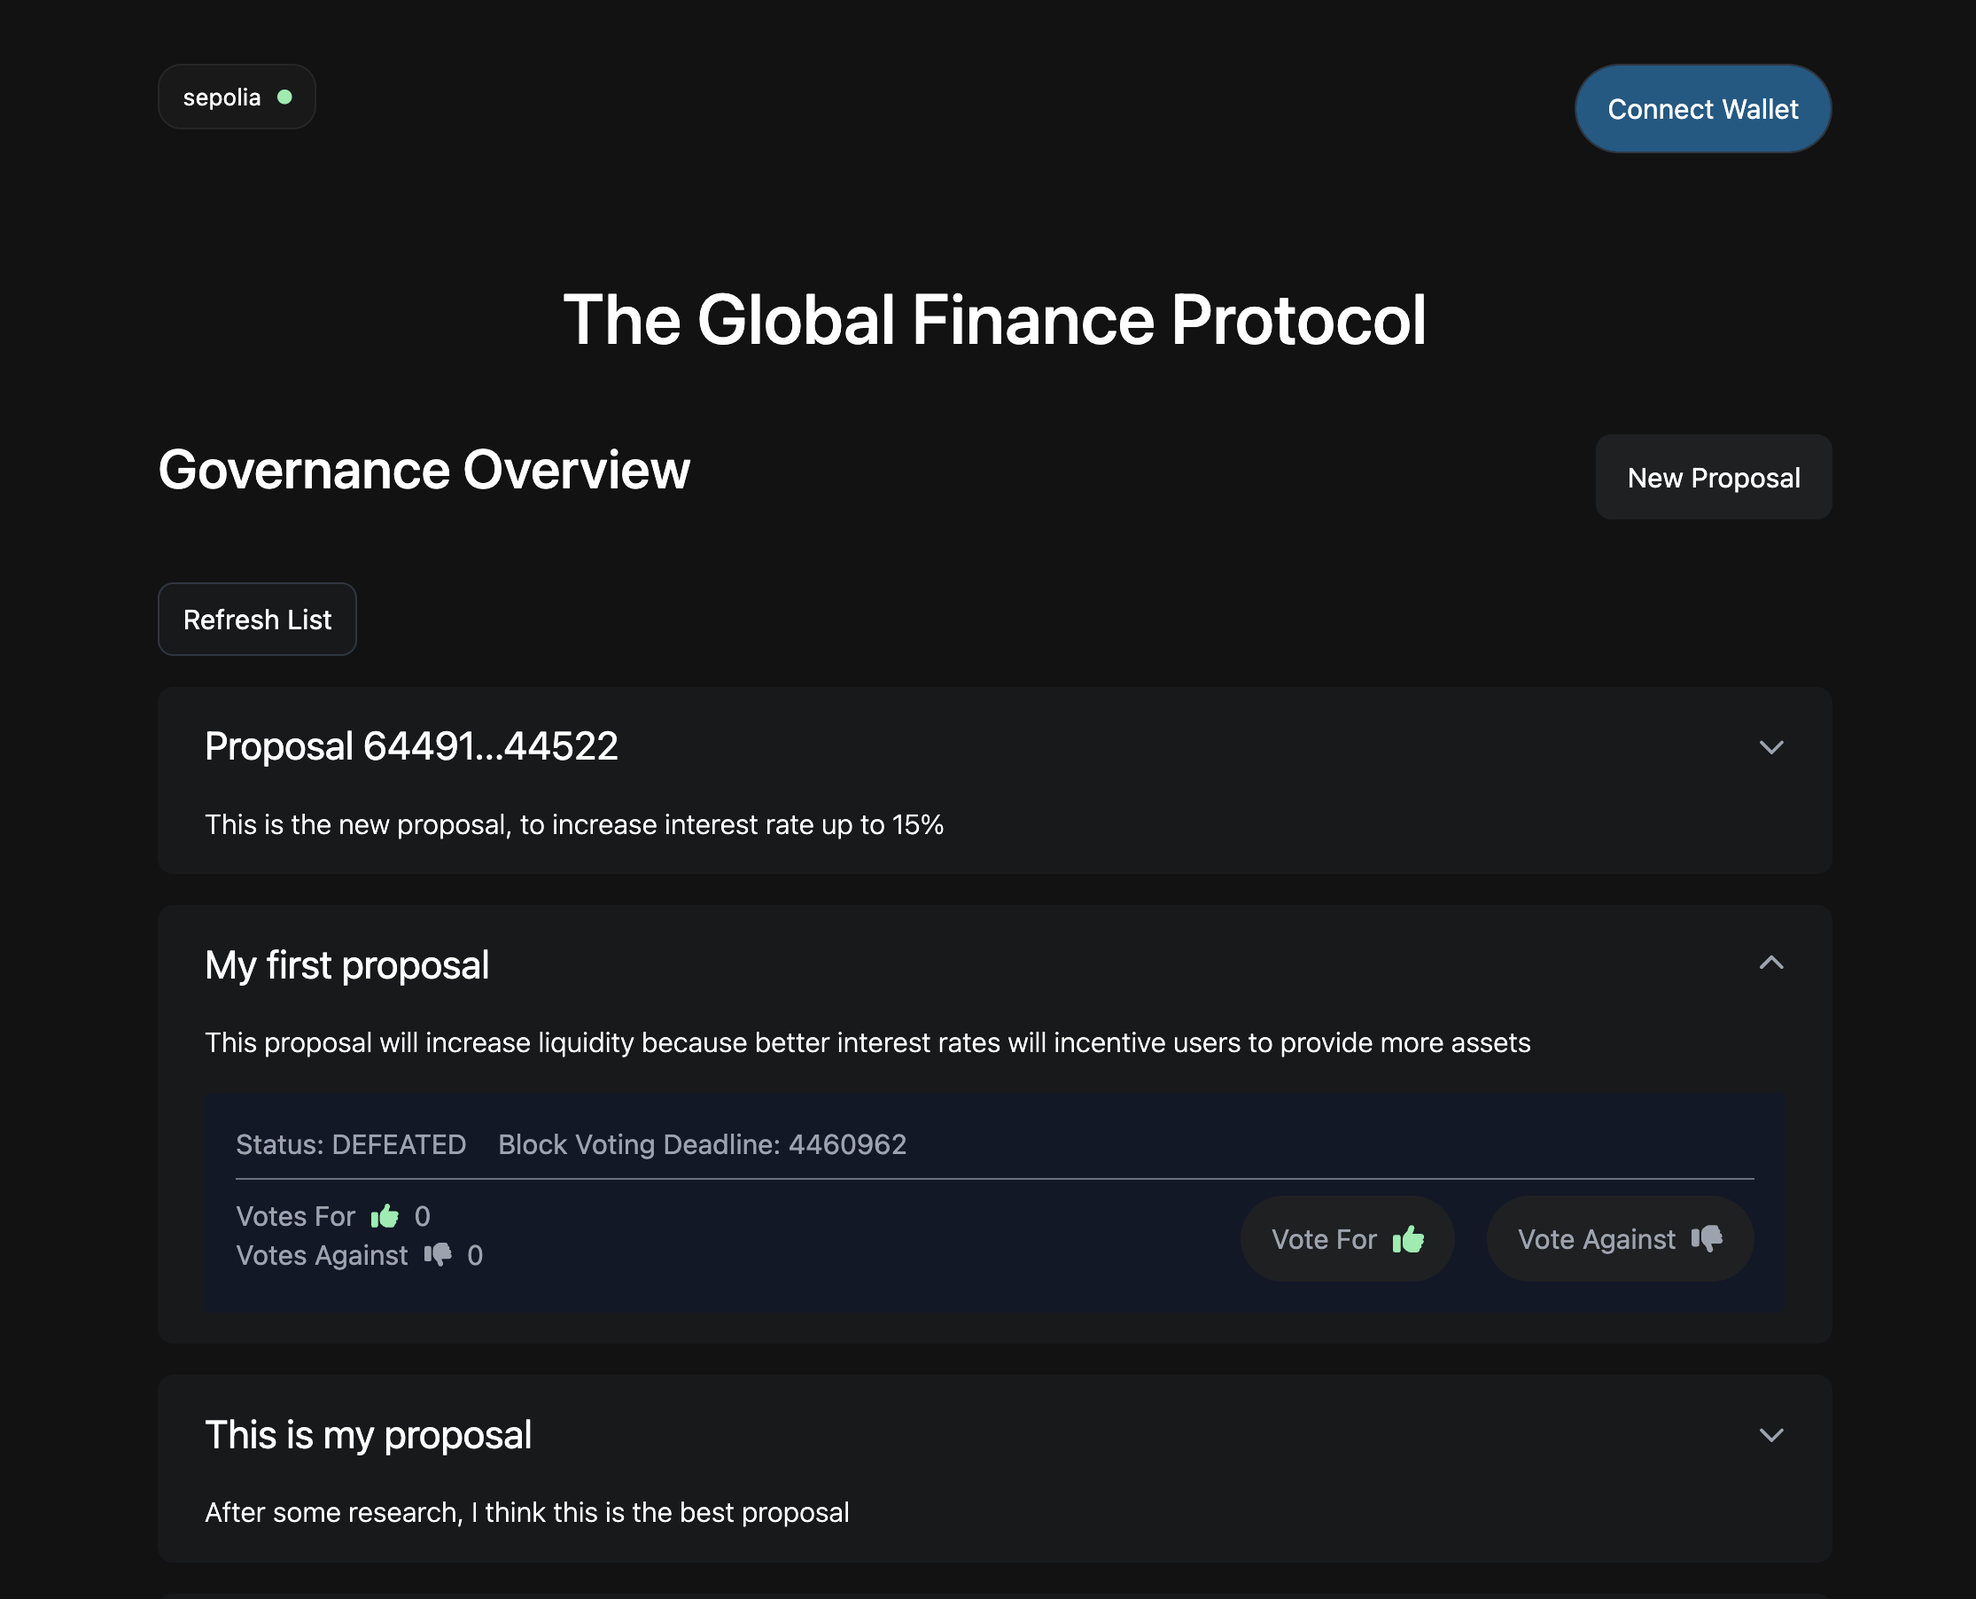
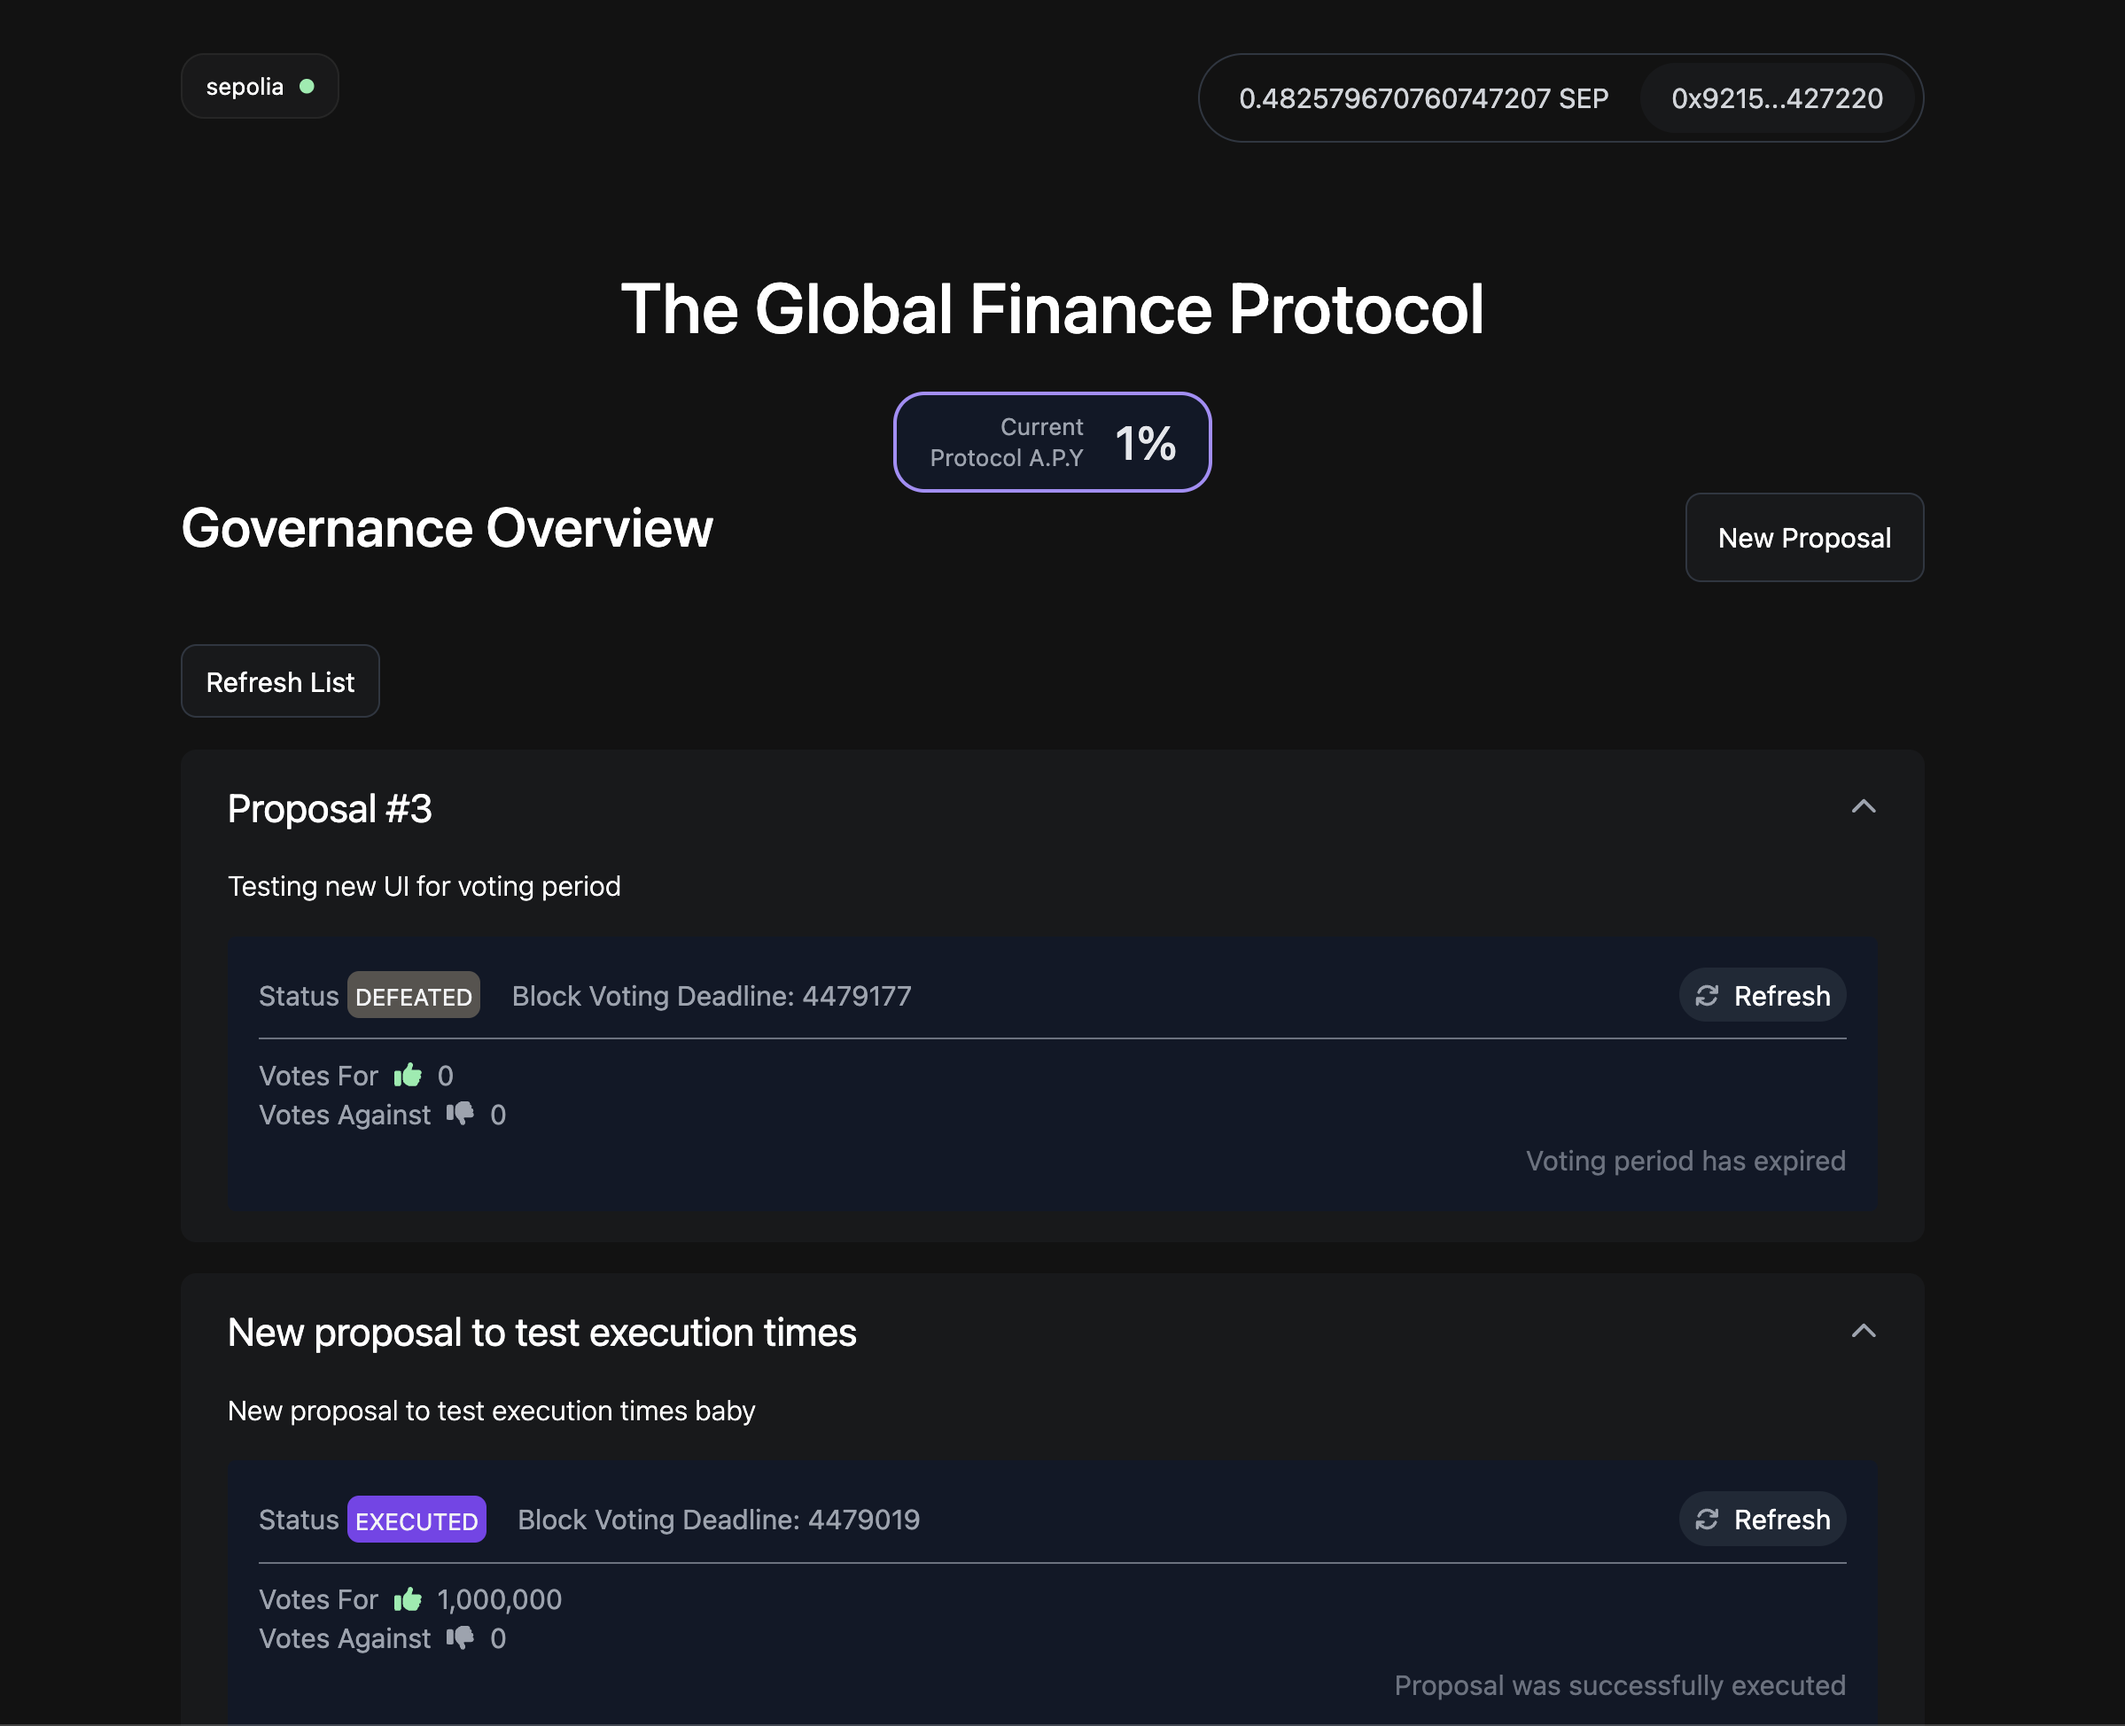
add current protocol value, update readme

diff --git a/src/components/molecules/CurrentValue.tsx b/src/components/molecules/CurrentValue.tsx
@@ -1,0 +1,26 @@
+import { useQuery } from "@tanstack/react-query";
+import Text from "../atoms/Text";
+import { getCurrentValue } from "@/utils/helpers/governance";
+
+const CurrentValue = () => {
+  const { data } = useQuery({
+    queryKey: ["current-value"],
+    queryFn: getCurrentValue,
+    initialData: [],
+    staleTime: 300 * 1000, // 5 minutes,
+    refetchOnMount: true,
+    refetchInterval: (data: any) =>
+      Array.isArray(data) && data.length ? 300 * 1000 : 10 * 1000, // 10 sec. until valid data, then 5 minutes,
+  });
+
+  return (
+    <div className="flex flex-row bg-gray-900 p-2 px-4 rounded-2xl text-center text-gray-400 text-xs gap-4 items-center text-right border-solid border-[2px] border-violet-400">
+      <Text className="max-w-[80px]">Current Protocol A.P.Y</Text>
+      <Text as="h3" className="text-gray-200 ">{`${
+        data?.value ?? "--"
+      }%`}</Text>
+    </div>
+  );
+};
+
+export default CurrentValue;

diff --git a/src/components/views/HomeView.tsx b/src/components/views/HomeView.tsx
@@ -3,14 +3,16 @@ import ProposalList from "@/components/molecules/ProposalList";
 import HeaderMenu from "@/components/molecules/HeaderMenu";
 import NewProposalModal from "../molecules/NewProposalModal";
 import NewProposalButton from "../molecules/NewProposalButton";
+import CurrentValue from "../molecules/CurrentValue";
 
 const HomeView = () => {
   return (
     <main className="flex min-h-screen flex-col items-center mt-10 pb-20 px-[10%]">
       <HeaderMenu />
-      <Text variant="h1" className="mb-10">
+      <Text variant="h1" className="mb-6">
         The Global Finance Protocol
       </Text>
+      <CurrentValue />
       <div className=" w-full flex flex-row justify-between mb-8">
         <Text variant="h2">Governance Overview</Text>
         <NewProposalButton />

diff --git a/src/utils/helpers/governance.tsx b/src/utils/helpers/governance.tsx
@@ -44,3 +44,14 @@ export const getProposalById = async (proposalId: string) => {
     toast.error("Error fetching proposals. Try again later");
   }
 };
+
+export const getCurrentValue = async (proposalId: string) => {
+  try {
+    const { data: value } = await apiClient.get<{ value: string }>(
+      "governance/value"
+    );
+    return value;
+  } catch {
+    toast.error("Error fetching proposals. Try again later");
+  }
+};
